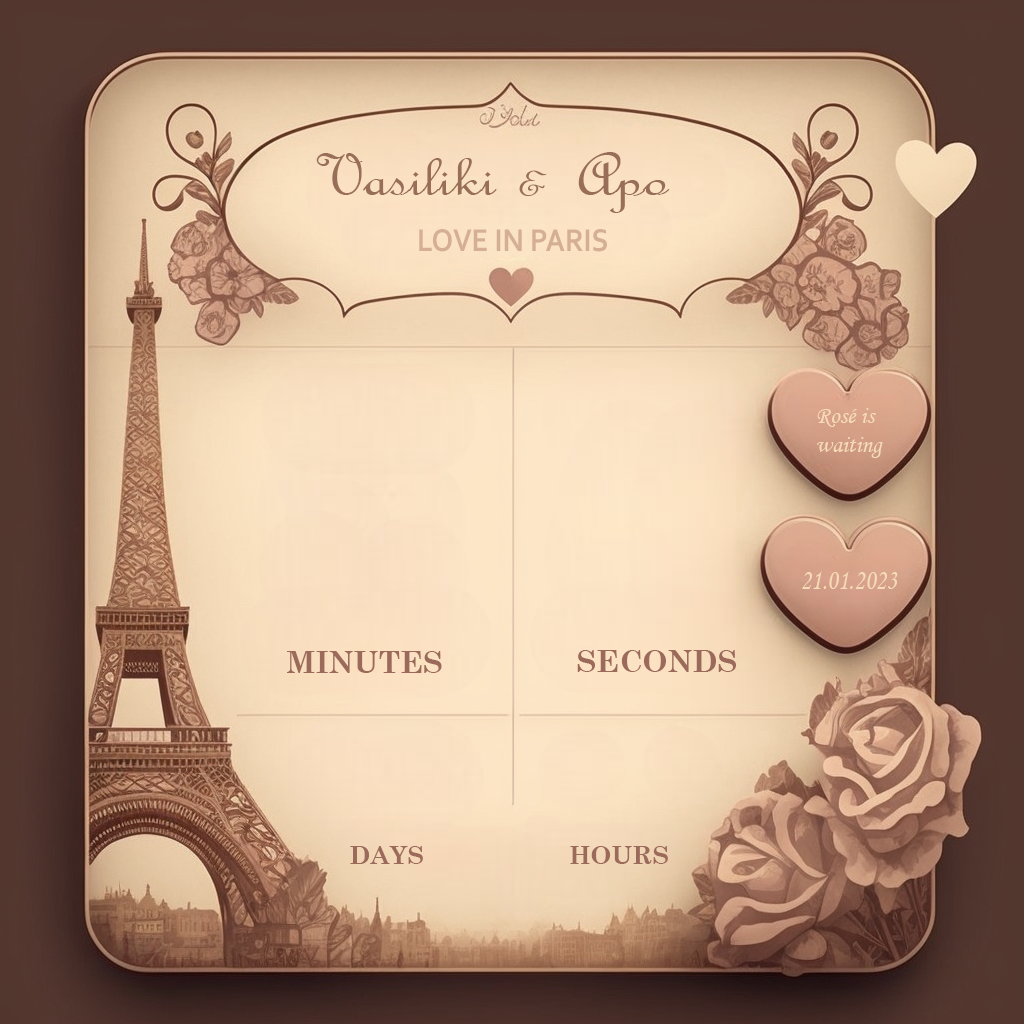
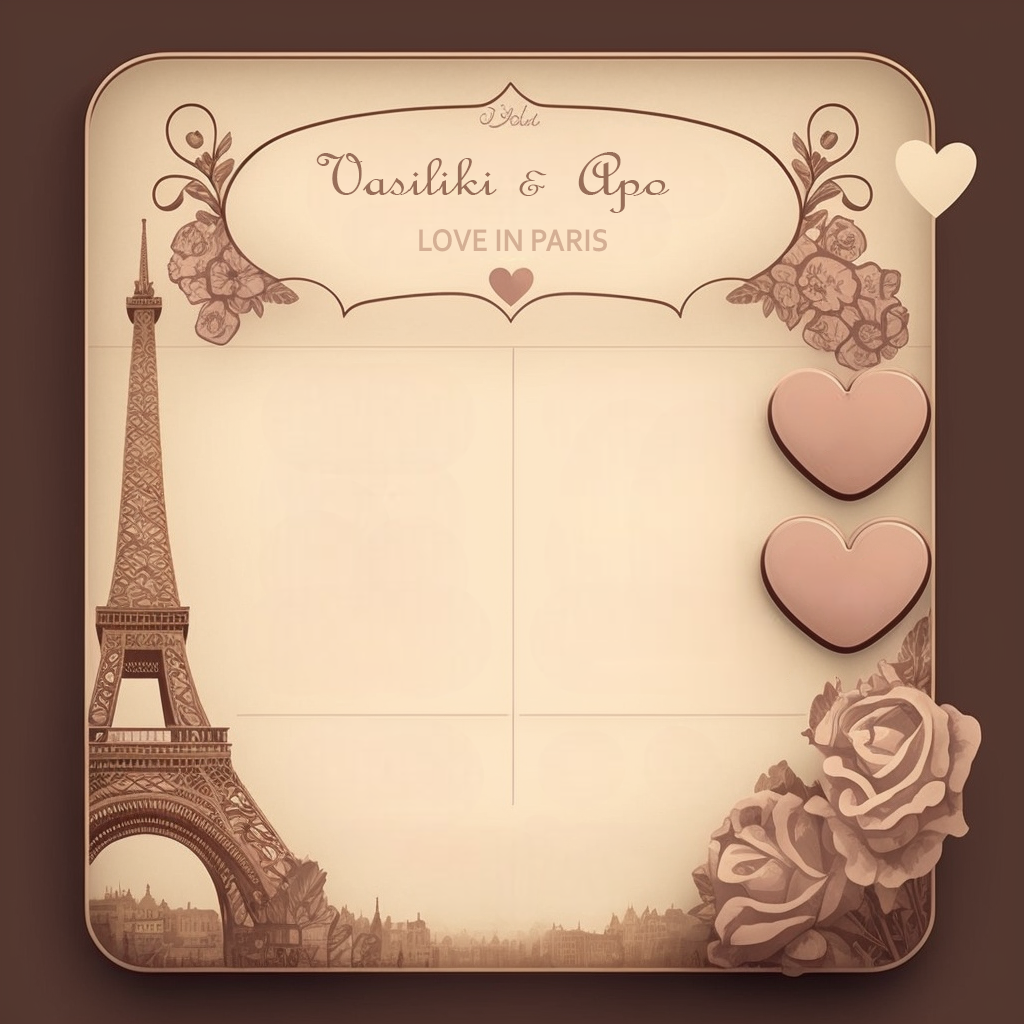
Timing and side labels are added.

diff --git a/templates/countdown/index.html b/templates/countdown/index.html
@@ -3,7 +3,7 @@
 <html>
 <head>
     <meta charset="UTF-8">
-    <title>The Final Countdown</title>
+    <title>Welcome to Countdown</title>
     <link href="{% static 'countdown/css/countdown.css' %}" rel="stylesheet"/>
 </head>
 <body class="cd-body">
@@ -17,6 +17,16 @@
         <span id="hours"></span>
         <span id="minutes"></span>
         <span id="seconds"></span>
+    </div>
+    <div class="timing-labels">
+        <p id="days-label">DAYS</p>
+        <p id="hours-label">HOURS</p>
+        <p id="minutes-label">MINUTES</p>
+        <p id="seconds-label">SECONDS</p>
+    </div>
+    <div class="side-labels">
+        <p id="lovey-phrase">Rose is<br/>waiting</p>
+        <p id="target-date">25.03.2023</p>
     </div>
 </div>
 
@@ -39,9 +49,9 @@
         document.getElementById('seconds').innerHTML = seconds;
 
         if (days < 10) {
-            document.getElementById('days').style.left = '36%';
+            document.getElementById('days').style.right = '59%';
         } else {
-            document.getElementById('days').style.left = '33%';
+            document.getElementById('days').style.right = '55%';
         }
 
         if (hours < 10) {
@@ -51,9 +61,9 @@
         }
 
         if (minutes < 10) {
-            document.getElementById('minutes').style.left = '31%';
+            document.getElementById('minutes').style.right = '59%';
         } else {
-            document.getElementById('minutes').style.left = '27%';
+            document.getElementById('minutes').style.right = '54%';
         }
 
         if (seconds < 10) {

diff --git a/static/countdown/css/countdown.css b/static/countdown/css/countdown.css
@@ -30,13 +30,58 @@
 }
 
 #days, #hours {
-    top: 70%;
+    top: 71%;
     font-size: 12vh;
 }
 
 #minutes, #seconds {
-    top: 40%;
+    top: 41%;
     font-size: 19vh;
+}
+
+.timing-labels {
+    color: #9a6859;
+    font-family: "Century Schoolbook";
+    font-weight: bold;
+}
+
+.side-labels {
+    color: #f6d9b6;
+    font-size: 2.3vh;
+    font-family: "Monotype Corsiva";
+}
+
+.timing-labels p, .side-labels p {
+    position: absolute;
+}
+
+#minutes-label, #seconds-label {
+    top: 58%;
+    font-size: 3.1vh;
+}
+
+#hours-label, #days-label {
+    top: 82%;
+    font-size: 1.8vh;
+    margin: 1% 4% 1% 4%;
+}
+
+#minutes-label, #days-label {
+    right: 54%;
+}
+
+#seconds-label, #hours-label {
+    left: 54%;
+}
+
+#lovey-phrase {
+    top: 37.5%;
+    right: 14%;
+}
+
+#target-date {
+    top: 53.6%;
+    right: 12.8%;
 }
 
 @media screen and (orientation: portrait) {
@@ -54,26 +99,21 @@
         font-size: 19vw;
     }
 
+    .side-labels {
+        font-size: 2.3vw;
+    }
+
+    #minutes-label, #seconds-label {
+        font-size: 3.1vw;
+    }
+
+    #hours-label, #days-label {
+        font-size: 1.8vw;
+    }
+
     .cd-body {
         display: flex;
         align-items: center;
-    }
-}
-
-/* Landscape */
-@media screen and (orientation: landscape) {
-    /* Landscape styles */
-    #cd-image {
-        height: 100%;
-        width: auto;
-    }
-
-    #days, #hours {
-        font-size: 12vh;
-    }
-
-    #minutes, #seconds {
-        font-size: 19vh;
     }
 }
 
